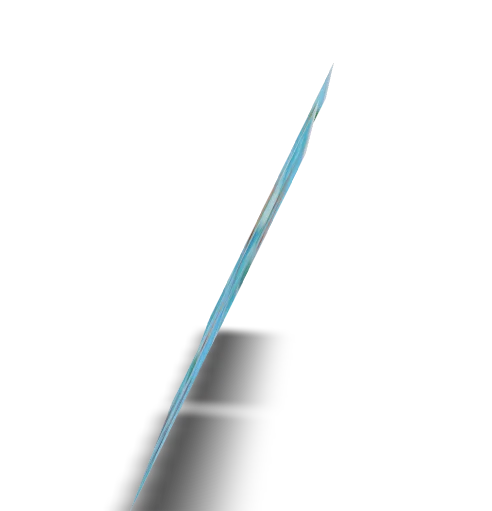
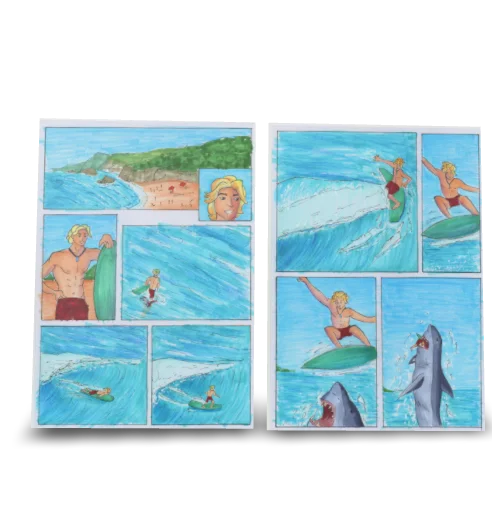
nnnjnjnjnjn

diff --git a/3d/animation/index.html b/3d/animation/index.html
@@ -4,8 +4,21 @@
     <meta charset="UTF-8">
     <meta name="viewport" content="width=device-width, initial-scale=1.0">
     <title>Document</title>
+    <style>
+        video {
+            position: absolute;
+            top: 50%;
+            left: 50%;
+            transform: translate(-50%, -50%);
+        }
+
+    </style>
 </head>
 <body>
     <p> video </p>
+    <video width="1000" height:auto controls autoplay muted >
+        <source src="MAGICAL_SPACE_TRANSFORMATION_FINAL0.mp4" type="video/mp4">
+
+    </video>
 </body>
 </html>

diff --git a/3d/index.html b/3d/index.html
@@ -23,7 +23,7 @@
       data-normal="-0.3221189055361862m 0.9374992082222058m -0.1316611000975875m" data-visibility-attribute="visible" data-orbit="-793.83deg 28.17deg 3.401m" data-target="-0.30m 0.38m 0.19m">
       <div class="HotspotAnnotation">Comic</div>
 
-    </button><button class="Hotspot" slot="hotspot-3"
+    </button><button class="Hotspot" id="animation" slot="hotspot-3"
       data-position="0.16677043694088162m 0.2768028423240493m 0.09252139153391645m"
       data-normal="-0.14626939463068392m 0.8887689295009292m 0.43439043975224123m" data-visibility-attribute="visible">
       <div class="HotspotAnnotation">Animation</div>
@@ -50,6 +50,9 @@
 
                     if (annotation.id === "comic") {
                       window.location.href = "comic/index.html";
+                    }
+                     if (annotation.id === "animation") {
+                      window.location.href = "animation/index.html";
                     }
 
                   

diff --git a/3d/styles.css b/3d/styles.css
@@ -11,12 +11,13 @@ body {
   padding: 0;
   width: 100%;
   height: 100%;
+  background-color: rgb(69, 125, 174);
 }
 
 model-viewer {
   width: 100%;
   height: 90%;
-  background-color: #ffffff;
+  background-color: rgb(69, 125, 174);
 }
 
 .Hotspot {

diff --git a/3d/comic/index.html b/3d/comic/index.html
@@ -9,7 +9,7 @@
   </head>
   <body>
     <!-- <model-viewer> HTML element -->
-    <model-viewer src="comic.glb" ar ar-modes="webxr scene-viewer quick-look" camera-controls tone-mapping="neutral" poster="poster.webp" shadow-intensity="2" exposure="0.5" shadow-softness="0.75">
+    <model-viewer src="comic.glb" ar ar-modes="webxr scene-viewer quick-look" camera-controls camera-orbit="-1178deg 70.22deg 17m" tone-mapping="neutral" poster="poster.webp" shadow-intensity="2" exposure="0.5" shadow-softness="0.75" field-of-view="20deg">
       <div class="progress-bar hide" slot="progress-bar">
           <div class="update-bar"></div>
       </div>